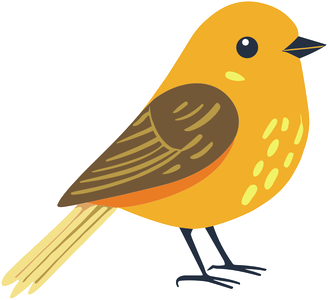
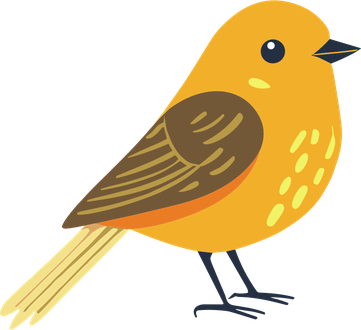
Bird on a Wire: smoother flight that leaves the screen, birds face the way they fly, clean cut-outs
Claude-Session: https://claude.ai/code/session_01MLGMh2dSNpCvxY5SBcjVA2

diff --git a/index.html b/index.html
@@ -11,7 +11,7 @@
 <link rel="apple-touch-icon" sizes="180x180" href="icons/apple-touch-icon.png">
 <link rel="manifest" href="manifest.webmanifest">
 <meta name="theme-color" content="#F7F1EA">
-<meta name="build" content="2026-11-12.054659">
+<meta name="build" content="2026-11-12.061543">
 <meta name="mobile-web-app-capable" content="yes">
 <meta name="apple-mobile-web-app-capable" content="yes">
 <meta name="apple-mobile-web-app-title" content="Momo Math">
@@ -1212,8 +1212,8 @@ body.birdbg,body.birdbg #app{background:linear-gradient(180deg,#D9ECF6 0%,#E8F3F
 .wbird.away{visibility:hidden}
 .wbird.hover{animation:birdhover 1s ease-in-out infinite;z-index:3}
 .wbird.hover.flip{animation-name:birdhoverF}
-@keyframes birdhover{0%,100%{transform:translate(-50%,0) translate(calc(var(--u) * .9),calc(var(--u) * -.8)) rotate(-6deg)}50%{transform:translate(-50%,0) translate(calc(var(--u) * .9),calc(var(--u) * -1.0)) rotate(4deg)}}
-@keyframes birdhoverF{0%,100%{transform:translate(-50%,0) translate(calc(var(--u) * .9),calc(var(--u) * -.8)) scaleX(-1) rotate(-6deg)}50%{transform:translate(-50%,0) translate(calc(var(--u) * .9),calc(var(--u) * -1.0)) scaleX(-1) rotate(4deg)}}
+@keyframes birdhover{0%,100%{transform:translate(-50%,0) translate(calc(var(--u) * var(--hx,.9)),calc(var(--u) * -.8)) rotate(-6deg)}50%{transform:translate(-50%,0) translate(calc(var(--u) * var(--hx,.9)),calc(var(--u) * -1.0)) rotate(4deg)}}
+@keyframes birdhoverF{0%,100%{transform:translate(-50%,0) translate(calc(var(--u) * var(--hx,.9)),calc(var(--u) * -.8)) scaleX(-1) rotate(-6deg)}50%{transform:translate(-50%,0) translate(calc(var(--u) * var(--hx,.9)),calc(var(--u) * -1.0)) scaleX(-1) rotate(4deg)}}
 .wbird.antsy{animation:birdantsy .5s ease-in-out infinite}
 .wbird.antsy.flip{animation-name:birdantsyF}
 @keyframes birdantsy{0%,100%{transform:translate(-50%,0) rotate(-7deg)}50%{transform:translate(-50%,-10%) rotate(7deg)}}
@@ -1262,6 +1262,10 @@ body.birdbg,body.birdbg #app{background:linear-gradient(180deg,#D9ECF6 0%,#E8F3F
 .mk-bin.hint{animation:mkhint .9s ease-in-out}
 @keyframes mkhint{25%,75%{transform:translateY(-10%)}50%{transform:translateY(0)}}
 @media (prefers-reduced-motion:reduce){ .mk-bin.plop,.mk-bin.hint,.mk-host.cheer{animation:none} }
+.wbird.land{animation:birdland .3s ease-out}
+.wbird.land.flip{animation-name:birdlandF}
+@keyframes birdland{40%{transform:translate(-50%,0) scale(1.06,.9)}}
+@keyframes birdlandF{40%{transform:translate(-50%,0) scaleX(-1) scale(1.06,.9)}}
 </style>
 </head>
 <body>
@@ -3377,6 +3381,9 @@ function showWriteReward(){
    Above 10 birds a second wire appears (ten on the first).
    ===================================================================== */
 var BIRD_ART = ['a1', 'a2', 'a4', 'a5', 'a6', 'a7', 'a8', 'b1', 'b2', 'b3', 'b4', 'b6'];
+/* which way each drawing looks: 1 = right, -1 = left. A bird always flies the way it is looking. */
+var BIRD_FACE = { a1:1, a2:1, a4:-1, a5:-1, a6:-1, a7:-1, a8:-1, b1:-1, b2:1, b3:-1, b4:1, b6:1 };
+function birdDir(k){ var a = G.art[k]; return BIRD_FACE[a[0]] * (a[1] ? -1 : 1); }
 function birdPlan(){ return shuffle([['watch', 1], ['watch', -1]]).concat(shuffle([['guess', 1], ['guess', -1]])).concat([['guess', Math.random() < 0.5 ? 1 : -1]]); }
 function startBirds(){ G = { game:'birds', q:0, earned:0, startStars:S.stars, plan:birdPlan() }; birdQuestion(); }
 function birdQuestion(){
@@ -3415,7 +3422,7 @@ function renderBirds(){
   for (var k = 0; k < G.art.length; k++) {
     var here = k < shown, extra = !G.moved && G.d > 0 && k === G.n, leaving = !G.moved && G.d < 0 && k === G.n - 1;
     if (!here && !extra) continue;
-    birds += '<img class="wbird' + (G.art[k][1] ? ' flip' : '') + (extra ? (G.mode === 'guess' ? ' hover' : ' away') : '') + (leaving && G.mode === 'guess' ? ' antsy' : '') + '" data-k="' + k + '" src="birds/' + G.art[k][0] + '.png" alt="" draggable="false">';
+    birds += '<img class="wbird' + (G.art[k][1] ? ' flip' : '') + (extra ? (G.mode === 'guess' ? ' hover' : ' away') : '') + (leaving && G.mode === 'guess' ? ' antsy' : '') + '" data-k="' + k + '"' + (extra ? ' style="--hx:' + (-birdDir(k) * 0.9) + '"' : '') + ' src="birds/' + G.art[k][0] + '.png" alt="" draggable="false">';
   }
   var choices = G.opts.map(function(v){
     var cls = 'choice' + (G.tried[v] ? ' tried' : '') + (G.done && v === G.t ? ' right' : '');
@@ -3461,16 +3468,25 @@ function birdMove(done){
   G.moved = true;
   var sc = document.getElementById('bwScene'), k = G.d > 0 ? G.n : G.n - 1, b = sc && sc.querySelector('.wbird[data-k="' + k + '"]');
   if (!b) { done && done(); return; }
-  var u = G.lay.u, flip = b.classList.contains('flip') ? ' scaleX(-1)' : '', DUR = reduceMotion ? 1 : 1300;
+  var u = G.lay.u, dir = birdDir(k), flip = b.classList.contains('flip') ? ' scaleX(-1)' : '', hovering = b.classList.contains('hover');
   b.classList.remove('hover', 'antsy', 'away');
-  var far = 'translate(-50%,0) translate(' + Math.round(G.lay.w * 0.45 + u * 2) + 'px,' + Math.round(-u * 2.6 - (parseFloat(b.style.top) || 0)) + 'px)' + flip, home = 'translate(-50%,0)' + flip;
   function fin(){ if (G.d < 0 && b.parentNode) b.remove(); else b.style.transform = ''; done && done(); }
   if (!b.animate || reduceMotion) { fin(); return; }
-  var kf = G.d > 0
-    ? [{ transform: far + ' rotate(-10deg)' }, { transform: 'translate(-50%,0) translate(' + Math.round(u * 0.6) + 'px,' + Math.round(-u * 0.9) + 'px)' + flip + ' rotate(8deg)', offset: .7 }, { transform: home + ' scale(1.06,.9)', offset: .9 }, { transform: home }]
-    : [{ transform: home }, { transform: home + ' scale(1.08,.86)', offset: .12 }, { transform: 'translate(-50%,0) translate(' + Math.round(u * 0.5) + 'px,' + Math.round(-u * 1.1) + 'px)' + flip + ' rotate(-12deg)', offset: .4 }, { transform: far + ' rotate(-6deg)' }];
-  var an = b.animate(kf, { duration: DUR, easing: 'ease-in-out', fill: 'forwards' }), ended = false;
-  function end(){ if (ended) return; ended = true; try { an.cancel(); } catch(e) {} fin(); }
+  /* the far end of the flight is measured on the screen, so the bird always goes right off it (or comes from off it) */
+  var r = b.getBoundingClientRect();
+  var offX = G.d > 0 ? (dir < 0 ? innerWidth - r.left + 30 : -(r.right + 30)) : (dir > 0 ? innerWidth - r.left + 30 : -(r.right + 30));
+  var offY = -Math.min(r.top + r.height + 30, Math.max(innerHeight * 0.45, u * 3));
+  if (G.d > 0 && hovering) { offX = -dir * u * 0.9; offY = -u * 0.9; }
+  /* a smooth arc: many small steps along the curve, with a gentle start and stop; t = 0 on the wire, 1 far away */
+  var N = 24, kf = [], DUR = hovering ? 700 : 1500;
+  for (var i = 0; i <= N; i++) {
+    var p = i / N, e = p * p * (3 - 2 * p), t = G.d > 0 ? 1 - e : e;
+    var x = offX * Math.pow(t, 1.5), y = offY * (1 - Math.pow(1 - t, 2.2)) - Math.sin(t * Math.PI * 3) * u * 0.05 * (t > 0.08 ? 1 : 0);
+    var tilt = -dir * 9 * Math.sin(Math.min(1, t * 2.2) * Math.PI / 2) * (flip ? -1 : 1);
+    kf.push({ transform: 'translate(-50%,0) translate(' + x.toFixed(1) + 'px,' + y.toFixed(1) + 'px)' + flip + ' rotate(' + tilt.toFixed(1) + 'deg)', offset: +p.toFixed(4) });
+  }
+  var an = b.animate(kf, { duration: DUR, easing: 'linear', fill: 'forwards' }), ended = false;
+  function end(){ if (ended) return; ended = true; if (G.d > 0) { b.classList.remove('land'); void b.offsetWidth; b.classList.add('land'); } try { an.cancel(); } catch(e) {} fin(); }
   an.onfinish = end; setTimeout(end, DUR + 150);
 }
 /* count the birds on the wire out loud, each one hopping as its number is said */
